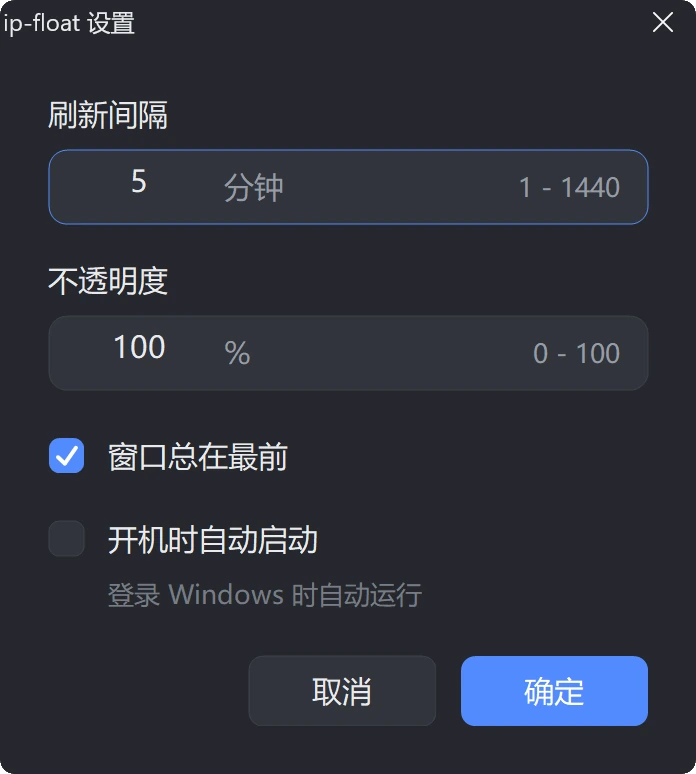
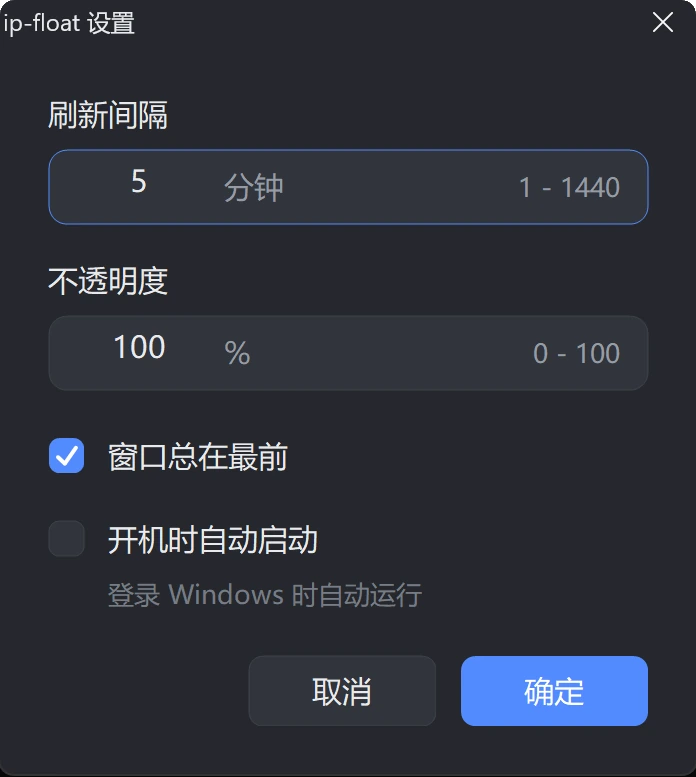
feat(ip-float): 同步 v3.1.0 项目状态
- 体积 713 KB -> 812 KB，版本标注 v3.1.0
- 统计改为「10 个按职责拆分的模块」，架构说明同步模块化
- 自检章节改为 --render（离屏渲染）+ --shot / --shot-dlg，并说明 --ini / sidecar
- 签名说明改为显式 -Sign，补上 GitHub Actions 构建与单测
- 设置窗口截图替换为当前版本（696x777）

diff --git a/project-ip-float.html b/project-ip-float.html
@@ -12,18 +12,18 @@
        这里补一条，让行内代码用站点自己的等宽字体而不是浏览器默认的 monospace。 */
     code { font-family: var(--font-mono); font-size: 0.88em; }
   </style>
-  <meta name="description" content="A 713 KB single-file Windows desktop card that shows your outbound IP, geolocation and ASN in two lines — zero runtime dependencies, no installer | 713 KB 单文件 Windows 桌面悬浮卡片，两行显示出口 IP、归属地与 ASN，零运行时依赖、无需安装">
+  <meta name="description" content="A 812 KB single-file Windows desktop card that shows your outbound IP, geolocation and ASN in two lines — zero runtime dependencies, no installer | 812 KB 单文件 Windows 桌面悬浮卡片，两行显示出口 IP、归属地与 ASN，零运行时依赖、无需安装">
   <link rel="canonical" href="https://jiqinghuang.github.io/project-ip-float.html">
   <link rel="icon" href="favicon.svg" type="image/svg+xml">
   <meta property="og:type" content="website">
   <meta property="og:site_name" content="JQ">
   <meta property="og:title" content="Outbound IP Desktop Widget | JQ">
-  <meta property="og:description" content="A 713 KB single-file Windows desktop card that shows your outbound IP, geolocation and ASN in two lines — zero runtime dependencies, no installer | 713 KB 单文件 Windows 桌面悬浮卡片，两行显示出口 IP、归属地与 ASN">
+  <meta property="og:description" content="A 812 KB single-file Windows desktop card that shows your outbound IP, geolocation and ASN in two lines — zero runtime dependencies, no installer | 812 KB 单文件 Windows 桌面悬浮卡片，两行显示出口 IP、归属地与 ASN">
   <meta property="og:url" content="https://jiqinghuang.github.io/project-ip-float.html">
   <meta property="og:image" content="https://jiqinghuang.github.io/assets/ip-float/card.png">
   <meta name="twitter:card" content="summary_large_image">
   <meta name="twitter:title" content="Outbound IP Desktop Widget | JQ">
-  <meta name="twitter:description" content="A 713 KB single-file Windows desktop card showing your outbound IP, geolocation and ASN in two lines — zero runtime dependencies.">
+  <meta name="twitter:description" content="A 812 KB single-file Windows desktop card showing your outbound IP, geolocation and ASN in two lines — zero runtime dependencies.">
   <meta name="twitter:image" content="https://jiqinghuang.github.io/assets/ip-float/card.png">
 </head>
 <body>
@@ -69,8 +69,8 @@
         </a>
       </div>
       <p style="margin-top:20px;font-family:var(--font-mono);font-size:0.78rem;color:var(--text-dim)">
-        <span data-lang="cn">单文件 exe（约 713 KB），双击即用 —— 不需要安装、不需要管理员权限。<br>Windows 首次运行可能提示安全警告，处理办法见仓库 README。</span>
-        <span data-lang="en">A single ~713 KB exe — double-click to run. No installer, no admin rights.<br>Windows may warn on first launch; the README covers the fix.</span>
+        <span data-lang="cn">单文件 exe（v3.1.0，约 812 KB），双击即用 —— 不需要安装、不需要管理员权限。<br>Windows 首次运行可能提示安全警告，处理办法见仓库 README。</span>
+        <span data-lang="en">A single ~812 KB exe (v3.1.0) — double-click to run. No installer, no admin rights.<br>Windows may warn on first launch; the README covers the fix.</span>
       </p>
     </div>
   </section>
@@ -91,7 +91,7 @@
 
       <div class="card-grid fade-in" style="margin-top:40px;align-items:center">
         <div class="gallery-item" style="max-width:340px;width:100%;justify-self:center">
-          <picture><source srcset="assets/ip-float/settings.webp" type="image/webp"><img src="assets/ip-float/settings.png" alt="ip-float 设置窗口：刷新间隔 5 分钟、不透明度 100%、窗口总在最前已勾选、开机时自动启动未勾选" width="696" height="774" loading="lazy" decoding="async"></picture>
+          <picture><source srcset="assets/ip-float/settings.webp" type="image/webp"><img src="assets/ip-float/settings.png" alt="ip-float 设置窗口：刷新间隔 5 分钟、不透明度 100%、窗口总在最前已勾选、开机时自动启动未勾选" width="696" height="777" loading="lazy" decoding="async"></picture>
           <div class="gallery-caption"><span data-lang="cn">设置窗口 · 点击放大</span><span data-lang="en">Settings · click to enlarge</span></div>
         </div>
         <div class="card" style="border:none;background:transparent;box-shadow:none;padding:0">
@@ -136,7 +136,7 @@
       <p class="section-subtitle fade-in" style="text-align:center"><span data-lang="cn">一个足够小的工具，把该做对的细节都做对</span><span data-lang="en">A deliberately small tool that still gets the details right</span></p>
       <div class="stats-row fade-in">
         <div class="stat-card">
-          <div class="stat-number">713 <span style="font-size:1.1rem">KB</span></div>
+          <div class="stat-number">812 <span style="font-size:1.1rem">KB</span></div>
           <div class="stat-label"><span data-lang="cn">单文件成品</span><span data-lang="en">Single-File Binary</span></div>
         </div>
         <div class="stat-card">
@@ -144,8 +144,8 @@
           <div class="stat-label"><span data-lang="cn">运行时依赖</span><span data-lang="en">Runtime Dependencies</span></div>
         </div>
         <div class="stat-card">
-          <div class="stat-number">1824</div>
-          <div class="stat-label"><span data-lang="cn">行 C++（单文件）</span><span data-lang="en">Lines of C++ (One File)</span></div>
+          <div class="stat-number">10</div>
+          <div class="stat-label"><span data-lang="cn">按职责拆分的模块</span><span data-lang="en">Modules by Responsibility</span></div>
         </div>
         <div class="stat-card">
           <div class="stat-number">2</div>
@@ -232,20 +232,22 @@
       <h2 class="section-title fade-in" style="text-align:center"><span data-lang="cn">30 秒自检</span><span data-lang="en">Verify It in 30 Seconds</span></h2>
       <p class="section-subtitle fade-in" style="text-align:center"><span data-lang="cn">没法在线试玩，但你可以不联网、不安装地先确认渲染是好的</span><span data-lang="en">You cannot try it online, but you can confirm the rendering offline without installing anything</span></p>
       <p class="fade-in" style="max-width:760px;margin:24px auto 0;color:var(--text-dim);font-size:0.95rem;line-height:1.9;text-align:center">
-        <span data-lang="cn">这是这个项目里我最满意的一个设计：exe 自带两个自检模式，用假数据渲染一张卡片或一张设置窗口截图。不联网、不受单实例限制，改完界面可以随时验证。</span>
-        <span data-lang="en">This is the part of the project I am happiest with: the exe ships two self-check modes that render the card, or the settings dialog, with sample data. No network, no single-instance restriction — the UI can be re-verified after any change.</span>
+        <span data-lang="cn">这是这个项目里我最满意的一个设计：exe 自带三种自检模式——<code>--render</code> 直接把卡片画进 PNG（不依赖桌面、壁纸或屏幕 DPI），<code>--shot</code> 抓真实卡片窗口，<code>--shot-dlg</code> 抓设置窗口。全部用演示数据、不联网、不受单实例限制，改完界面可以随时验证。</span>
+        <span data-lang="en">This is the part of the project I am happiest with: three self-check modes — <code>--render</code> draws the card straight into a PNG (independent of the desktop, wallpaper or screen DPI), <code>--shot</code> captures the real card window, and <code>--shot-dlg</code> captures the settings dialog. All use sample data, skip the network and bypass the single-instance check, so the UI can be re-verified after any change.</span>
       </p>
       <div class="fade-in" data-lang="cn" style="max-width:720px;margin:28px auto 0">
-        <pre style="background:var(--bg-elevated);border:1px solid var(--border);border-radius:var(--radius);padding:20px 22px;overflow-x:auto;font-family:var(--font-mono);font-size:0.8rem;line-height:1.95;color:var(--text);margin:0"><code>ip-float.exe --demo --shot out.png        # 用假数据渲染一张卡片自检图
-ip-float.exe --demo --shot-dlg dlg.png    # 给设置窗口拍一张自检图</code></pre>
+        <pre style="background:var(--bg-elevated);border:1px solid var(--border);border-radius:var(--radius);padding:20px 22px;overflow-x:auto;font-family:var(--font-mono);font-size:0.8rem;line-height:1.95;color:var(--text);margin:0"><code>ip-float.exe --render out.png             # 离屏渲染卡片（透明圆角，2x）
+ip-float.exe --demo --shot out.png        # 屏幕抓卡片（演示数据）
+ip-float.exe --demo --shot-dlg dlg.png    # 拍设置窗口</code></pre>
       </div>
       <div class="fade-in" data-lang="en" style="max-width:720px;margin:28px auto 0">
-        <pre style="background:var(--bg-elevated);border:1px solid var(--border);border-radius:var(--radius);padding:20px 22px;overflow-x:auto;font-family:var(--font-mono);font-size:0.8rem;line-height:1.95;color:var(--text);margin:0"><code>ip-float.exe --demo --shot out.png        # render the card with sample data
-ip-float.exe --demo --shot-dlg dlg.png    # render the settings dialog</code></pre>
+        <pre style="background:var(--bg-elevated);border:1px solid var(--border);border-radius:var(--radius);padding:20px 22px;overflow-x:auto;font-family:var(--font-mono);font-size:0.8rem;line-height:1.95;color:var(--text);margin:0"><code>ip-float.exe --render out.png             # off-screen card render (transparent, 2x)
+ip-float.exe --demo --shot out.png        # capture the card on screen (demo data)
+ip-float.exe --demo --shot-dlg dlg.png    # capture the settings dialog</code></pre>
       </div>
       <p class="fade-in" style="margin-top:20px;text-align:center;font-family:var(--font-mono);font-size:0.78rem;color:var(--text-dim)">
-        <span data-lang="cn">两个 --shot 都不联网、且不受单实例限制；因为是 -mwindows 构建没有控制台，截图会在同名位置写一个 .log 报告成功与否。</span>
-        <span data-lang="en">Both --shot modes skip the network and bypass the single-instance check. Because it is an -mwindows build with no console, each one writes a same-named .log reporting success or failure.</span>
+        <span data-lang="cn">自检都不联网、不受单实例限制；<code>--render</code> 还会额外写一个 <code>.json</code>（尺寸/缩放/圆角/配色），并可用 <code>--ini</code> 指定独立配置、不碰真实设置。因为是 -mwindows 构建没有控制台，每张图都会在同名位置写一个 <code>.log</code> 报告成功与否。</span>
+        <span data-lang="en">None of the self-check modes touch the network or the single-instance check. <code>--render</code> also writes a <code>.json</code> sidecar (size, scale, corner radius, colours) and accepts <code>--ini</code> to use a separate configuration without touching your real settings. Because this is an -mwindows build with no console, every image gets a same-named <code>.log</code> reporting success or failure.</span>
       </p>
     </div>
   </section>
@@ -254,7 +256,7 @@ ip-float.exe --demo --shot-dlg dlg.png    # render the settings dialog</code></p
   <section class="section section-alt">
     <div class="container">
       <h2 class="section-title fade-in" style="text-align:center"><span data-lang="cn">架构</span><span data-lang="en">Architecture</span></h2>
-      <p class="section-subtitle fade-in" style="text-align:center"><span data-lang="cn">一次刷新要走过的四步，全部在一个 1824 行的源文件里</span><span data-lang="en">Four steps per refresh, all inside a single 1824-line source file</span></p>
+      <p class="section-subtitle fade-in" style="text-align:center"><span data-lang="cn">一次刷新要走过的四步；代码按职责拆成 10 个模块，纯逻辑可脱离窗口单测</span><span data-lang="en">Four steps per refresh, split into 10 modules by responsibility — the pure logic is unit-testable without a window</span></p>
       <div class="arch-flow fade-in">
         <div class="arch-step">
           <div class="step-num">1</div>
@@ -299,7 +301,7 @@ ip-float.exe --demo --shot-dlg dlg.png    # render the settings dialog</code></p
         </div>
         <div class="card">
           <h3><span data-lang="cn">静态链接</span><span data-lang="en">Statically Linked</span></h3>
-          <p><span data-lang="cn"><code>-static -static-libgcc -static-libstdc++</code>，只依赖 7 个 Windows 自带系统库。构建用 <code>-Wall -Wextra</code> 且要求零警告，编译失败即中断，不会留下半个产物。</span><span data-lang="en">Built with <code>-static -static-libgcc -static-libstdc++</code> against seven system libraries Windows already provides. The build uses <code>-Wall -Wextra</code> and is expected to be warning-free; a compile failure aborts instead of leaving a half-written artifact.</span></p>
+          <p><span data-lang="cn"><code>-static -static-libgcc -static-libstdc++</code>，只依赖 7 个 Windows 自带系统库。构建用 <code>-Wall -Wextra</code> 且要求零警告，编译失败即中断，不会留下半个产物；GitHub Actions 每次推送都会跑 <code>-Werror</code> 构建和单测。</span><span data-lang="en">Built with <code>-static -static-libgcc -static-libstdc++</code> against seven system libraries Windows already provides. The build uses <code>-Wall -Wextra</code> and is expected to be warning-free; a compile failure aborts instead of leaving a half-written artifact. GitHub Actions runs the <code>-Werror</code> build and the unit tests on every push.</span></p>
         </div>
         <div class="card">
           <h3><span data-lang="cn">双缓冲绘制</span><span data-lang="en">Double-Buffered Drawing</span></h3>
@@ -368,8 +370,8 @@ ip-float.exe --demo --shot-dlg dlg.png    # render the settings dialog</code></p
         </table>
       </div>
       <p class="fade-in" style="max-width:780px;margin:24px auto 0;color:var(--text-dim);font-size:0.95rem;line-height:1.9;text-align:center">
-        <span data-lang="cn">完整的处置步骤（含注册表位置、界面路径和"必须重启资源管理器"这一步的说明）都写在了仓库 README 里，构建脚本在编译完成后会自动重新签名。</span>
-        <span data-lang="en">The complete fix — registry locations, UI paths and why restarting Explorer is mandatory — is documented in the repository README, and the build script re-signs the binary automatically after compiling.</span>
+        <span data-lang="cn">完整的处置步骤（含注册表位置、界面路径和"必须重启资源管理器"这一步的说明）都写在了仓库 README 里；签名是显式步骤（<code>build.ps1 -Sign</code>），默认构建不会去动证书。</span>
+        <span data-lang="en">The complete fix — registry locations, UI paths and why restarting Explorer is mandatory — is documented in the repository README; signing is an explicit step (<code>build.ps1 -Sign</code>), and a plain build never touches certificates.</span>
       </p>
     </div>
   </section>
@@ -379,8 +381,8 @@ ip-float.exe --demo --shot-dlg dlg.png    # render the settings dialog</code></p
     <div class="container" style="text-align:center">
       <h2 class="section-title fade-in" style="text-align:center"><span data-lang="cn">我的工作</span><span data-lang="en">My Role</span></h2>
       <p class="fade-in" style="max-width:760px;margin:0 auto;color:var(--text-dim);font-size:0.95rem;line-height:1.9">
-        <span data-lang="cn">独立完成全部 C++ / Win32 实现（WinHTTP 抓取与主备源轮换、手写 JSON 解析、GDI+ 半透明渲染、托盘与右键菜单、字体度量驱动的设置窗口、Per-Monitor DPI 适配），以及构建、自签名与分发链路和踩坑文档。</span>
-        <span data-lang="en">Independently implemented the entire C++/Win32 application — WinHTTP fetching with source fallback, the hand-written JSON parser, GDI+ translucent rendering, the tray icon and context menu, the font-metrics-driven settings dialog and Per-Monitor DPI handling — plus the build, self-signing and distribution pipeline and the troubleshooting documentation.</span>
+        <span data-lang="cn">独立完成全部 C++ / Win32 实现（WinHTTP 抓取与主备源轮换、手写 JSON 解析、GDI+ 半透明渲染、托盘与右键菜单、字体度量驱动的设置窗口、Per-Monitor DPI 适配），以及构建、自签名与分发链路和踩坑文档；并把单文件重构成 10 个按职责拆分的模块、补上纯逻辑单测与 GitHub Actions 构建。</span>
+        <span data-lang="en">Independently implemented the entire C++/Win32 application — WinHTTP fetching with source fallback, the hand-written JSON parser, GDI+ translucent rendering, the tray icon and context menu, the font-metrics-driven settings dialog and Per-Monitor DPI handling — plus the build, self-signing and distribution pipeline and the troubleshooting documentation, and refactored the single-file codebase into 10 modules with unit tests and a GitHub Actions build.</span>
       </p>
     </div>
   </section>

diff --git a/projects.html b/projects.html
@@ -127,7 +127,7 @@
         <a href="project-ip-float.html" class="card" style="text-decoration:none;color:inherit;display:flex;flex-direction:column;transition:transform 0.2s,border-color 0.2s">
           <div class="card-icon">IP</div>
           <h3><span data-lang="cn">出口 IP 桌面悬浮窗</span><span data-lang="en">Outbound IP Desktop Widget</span></h3>
-          <p style="flex:1"><span data-lang="cn">713 KB 单文件的 Windows 桌面小卡片：两行显示出口 IP、归属地与 ASN，零运行时依赖；不占任务栏、点它不抢焦点，抓取失败时直接写明原因。</span><span data-lang="en">A 713 KB single-file Windows desktop card showing your outbound IP, geolocation and ASN in two lines — zero runtime dependencies, no taskbar button, clicking never steals focus, and failures state their reason.</span></p>
+          <p style="flex:1"><span data-lang="cn">812 KB 单文件的 Windows 桌面小卡片：两行显示出口 IP、归属地与 ASN，零运行时依赖；不占任务栏、点它不抢焦点，抓取失败时直接写明原因。</span><span data-lang="en">A 812 KB single-file Windows desktop card showing your outbound IP, geolocation and ASN in two lines — zero runtime dependencies, no taskbar button, clicking never steals focus, and failures state their reason.</span></p>
           <div class="tech-tags" style="margin-top:16px">
             <span class="tech-tag">C++17</span>
             <span class="tech-tag">Win32</span>
